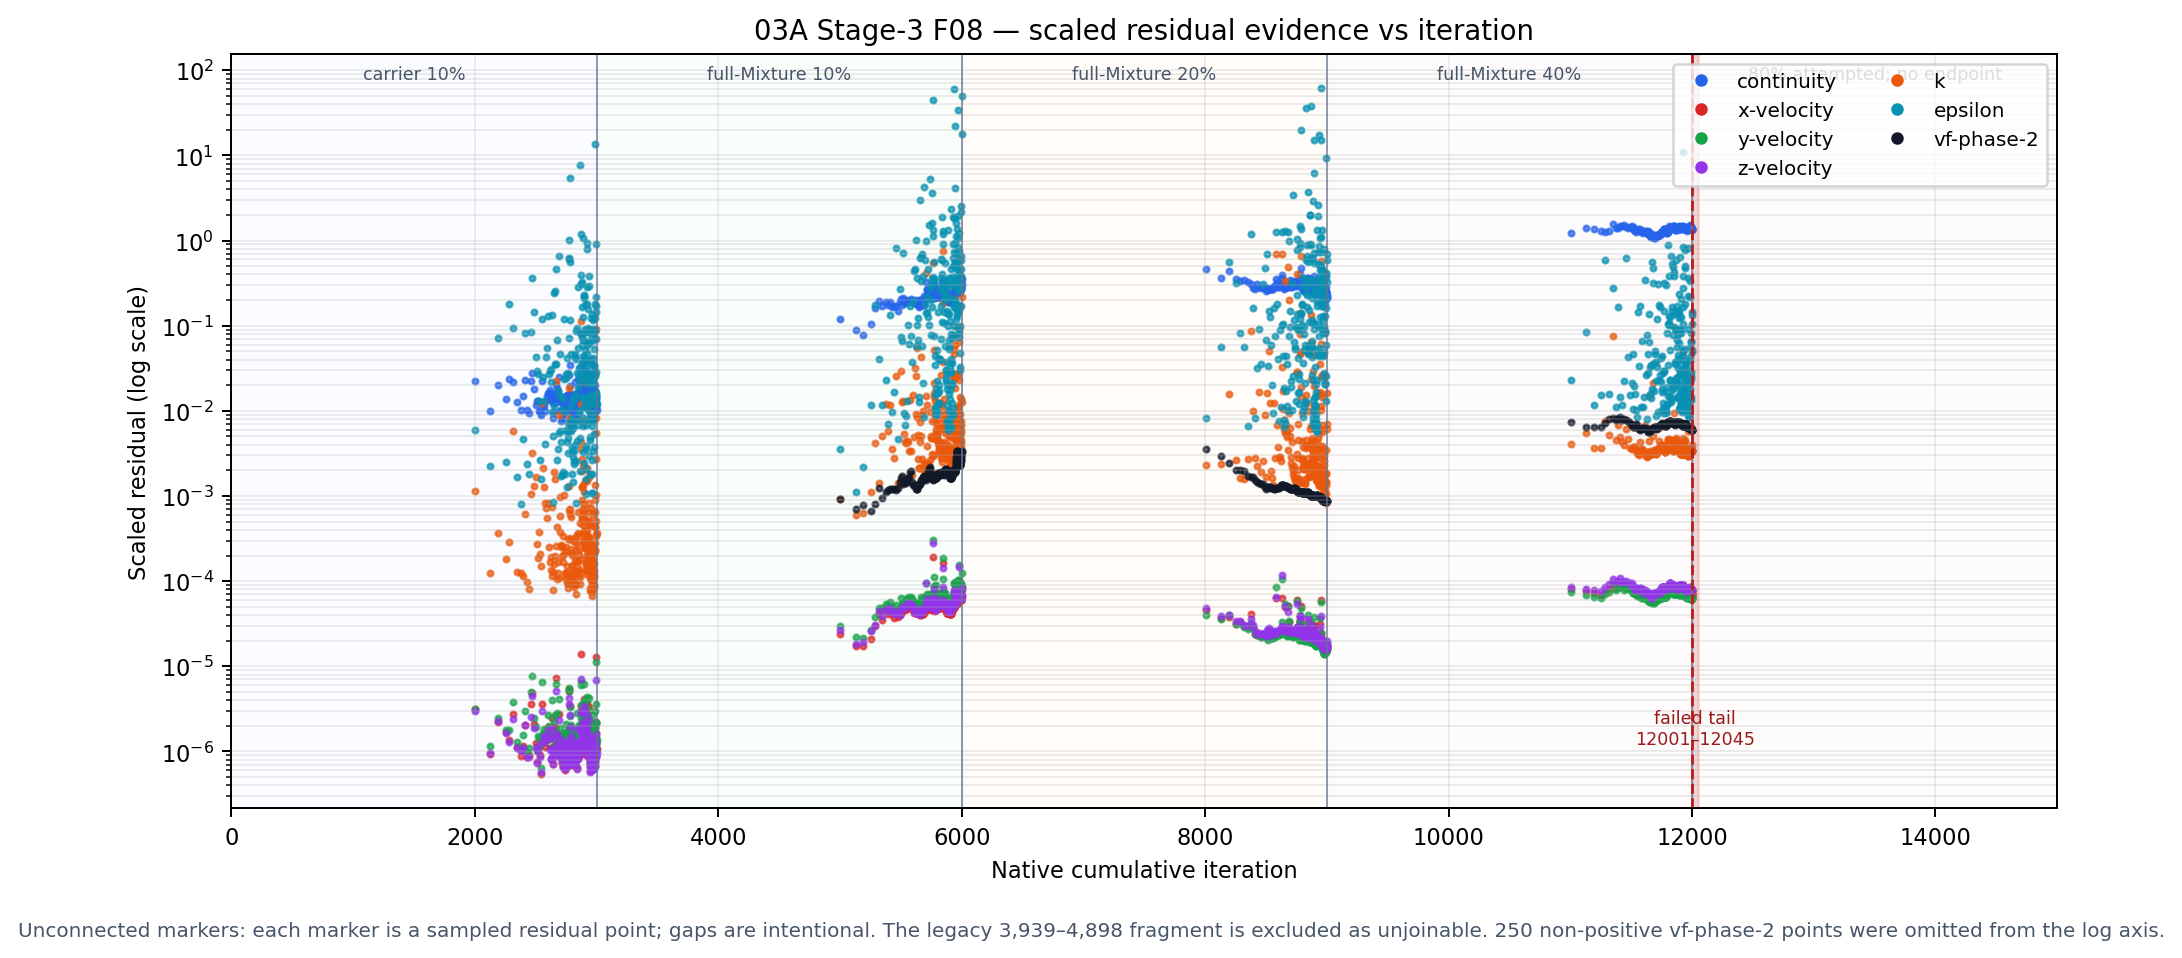
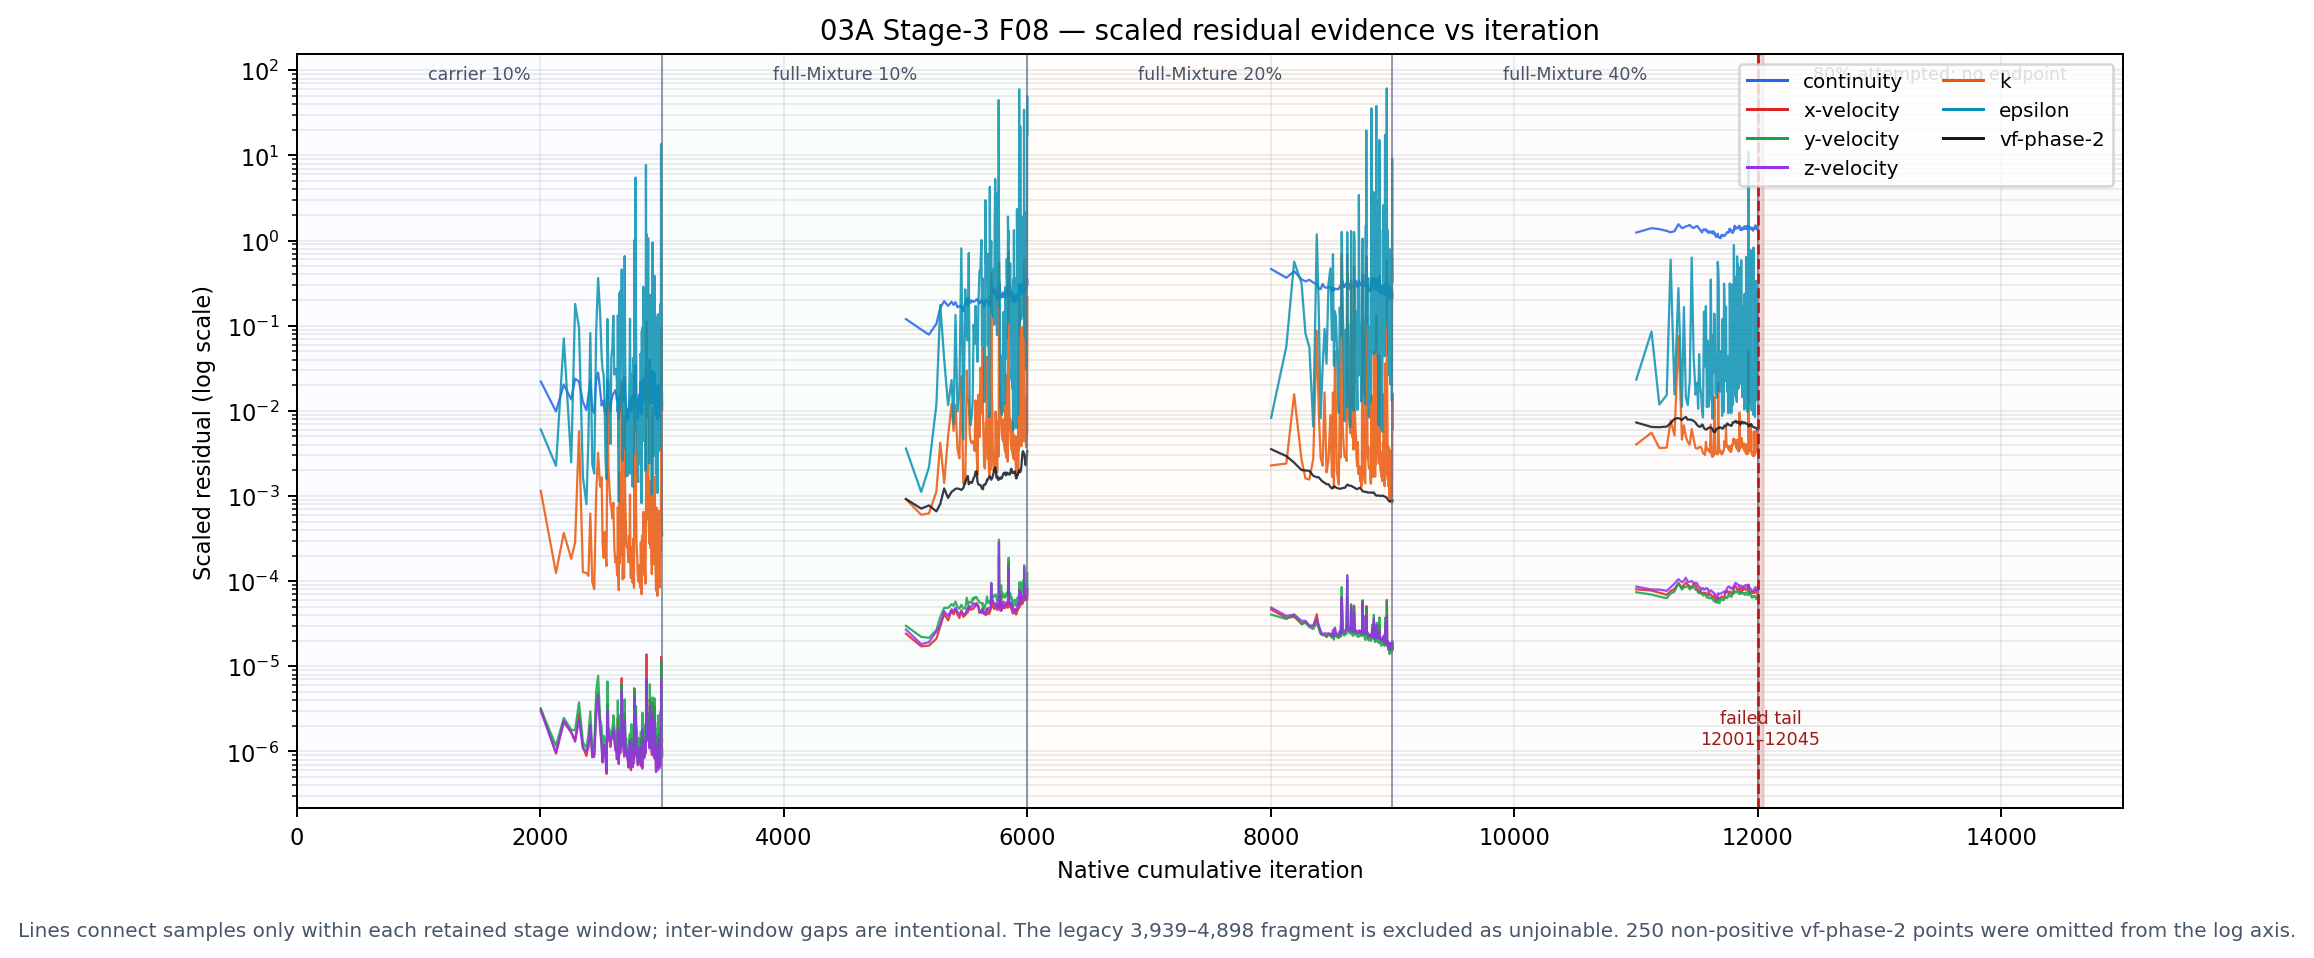
Publish Stage 3 and Stage 4 results plots

diff --git a/Setups/reports/full-geometry/mixture/steady-liquid-outlet/03a/03a-stage4-native-queue-execution-2026-08-23.md b/Setups/reports/full-geometry/mixture/steady-liquid-outlet/03a/03a-stage4-native-queue-execution-2026-08-23.md
@@ -12,47 +12,88 @@ lifecycle: active
 
 ## Status
 
-The original non-overwriting queue
-`03A-stage4-S4-01-through-S4-04-native-20260822T123011Z` is no longer active.
-Its Fluent-owned journal reached S4-02 cumulative iteration `36,000`, the exact
-`+30,000` iteration budget from the F06 iteration-6,000 parent, and then
-reported a journal-read error before the named endpoint write, residual export
-or S4-03 transition.  No NaN, infinity, floating-point exception or explicit
-fatal divergence preceded the interruption.
+The current Server 2 tree is the authoritative artifact source for this report:
+`C:\Users\syok443\Documents\FluentRuns\03A-stage4`.  It contains the
+completed S4-01 native branch, the completed-budget S4-02 native branch, and a
+later S4-03 recovery branch that reached its named cumulative-45,000 endpoint.
+This section supersedes the earlier 2026-08-23 reconciliation snapshot, which
+was written before the later endpoint/checkpoint files were visible in the
+remote tree.
 
-The bounded recovery queue
-`03A-stage4-S4-02-forensic-S4-03-S4-04-recovery-20260823T125548Z` is also
-stopped.  It preserved the post-interruption S4-02 live field under a unique
-forensic name, independently prepared S4-03 and S4-04 from the exact F11
-iteration-15,000 case/data pair, and submitted S4-03 as a Fluent-owned native
-branch.  S4-03 reached cumulative iteration `42,547` (`+27,547`) before the
-owner received `Stream removed (recvmsg:Operation timed out)`.  The target
-cumulative-45,000 autosave and named endpoint were absent at reconciliation,
-so the owner stopped without replay and S4-04 was not submitted.
+The native Stage 4 branches are related to the Stage 3 cases as follows:
+
+- S4-01 continues the F05 parent at cumulative iteration 3,000 for `+30,000`,
+  ending at cumulative 33,000.
+- S4-02 continues the F06 parent at cumulative iteration 6,000 for `+30,000`,
+  reaching cumulative 36,000 in the console.  Its six paired checkpoints stop
+  at 35,000 and no named endpoint or native residual export was written.
+- S4-03 continues the F11 parent at cumulative iteration 15,000 for `+30,000`
+  in the recovery run, ending at cumulative 45,000.
+- S4-04 uses the same F11 parent with standard `k-epsilon`, but remains a
+  prepared-only branch and was never submitted.
+
+No NaN, infinity, floating-point exception or explicit fatal numerical
+divergence is indicated by the recovered execution evidence.  These files are
+execution and diagnostic evidence; they do not by themselves establish
+physical convergence or parent eligibility.
 
 ## Verified execution evidence
 
 | Branch | Verified state | Classification |
 |---|---|---|
-| S4-01 | Native journal reached cumulative iteration 33,000 (`+30,000`); the named final case and data both exist | completed diagnostic / unresolved pending checksums, readback and physical-history analysis |
-| S4-02 | Native console reached cumulative iteration 36,000 (`+30,000`), then the journal stopped before endpoint write. A unique case/data pair was subsequently saved and hash-verified, but Fluent's post-interruption RP iteration value was `1,556` and cannot be reconciled with the console count | completed iteration budget / forensic live-field preservation / diagnostic-unresolved; not parent-eligible |
-| S4-03 | Exact F11 parent hashes and RNG readback passed. Complete paired autosaves were written at 20,000, 25,000, 30,000, 35,000 and 40,000. Transport failed at cumulative iteration 42,547 (`+27,547`), before the 45,000 target and named endpoint | interrupted diagnostic / unresolved; latest complete pair is cumulative 40,000 (`+25,000`), not parent-eligible |
-| S4-04 | Exact same F11 parent hashes and standard `k-epsilon` readback passed; prepared under a separate output root and native journal, but never submitted | prepared independent diagnostic / unresolved; not executed |
+| S4-01 | Native journal and remote tree show cumulative iteration 33,000 (`+30,000`), six paired checkpoints from 5,000 through 30,000, a named final case/data pair, residual export, transcript, and 30 physical report histories | completed diagnostic / unresolved pending binary checksums, readback and physical-history analysis |
+| S4-02 | Native console reached cumulative iteration 36,000 (`+30,000`); six paired checkpoints exist from 10,000 through 35,000. A separate recovery tree contains the ambiguous live-field forensic case/data pair; the native branch has no named endpoint or residual export, but its complete per-iteration residual table is present in the transcript | completed iteration budget / forensic live-field preservation / diagnostic-unresolved; not parent-eligible |
+| S4-03 | Recovery branch contains six paired checkpoints from 20,000 through 45,000, a named final case/data pair, residual export, transcript, and 30 physical report histories | completed diagnostic / unresolved pending binary checksums, readback and physical-history analysis |
+| S4-04 | Native and recovery prepared cases exist for the standard `k-epsilon` branch; no data, checkpoints, transcript, or report histories exist | prepared independent diagnostic / unresolved; not executed |
 
-The final observed S4-02 residual row at cumulative iteration `36,000` was
-continuity `0.15066`, `x/y/z` momentum `3.0047e-05`, `2.7322e-05`, and
-`3.1789e-05`, `k` `1.4070e-03`, epsilon `0.10394`, and phase-volume-fraction
-residual `2.1425e-03`.  This proves completion of the iteration budget, not a
-valid saved endpoint or physical convergence.
+The S4-02 transcript residual table runs continuously from cumulative
+iteration `6,000` through `36,000`; the Stage 3 F06 parent history supplies
+iterations `1–6,000`, with the shared boundary row deduplicated.  At
+iteration `36,000`, the residuals are continuity `0.15066`, `x/y/z` momentum
+`3.0047e-05`, `2.7322e-05`, and `3.1789e-05`, `k` `1.4070e-03`, epsilon
+`0.10394`, and phase-volume-fraction `2.1425e-03`.  There is no separate
+native `-residuals.out` export for S4-02, but its full residual history is now
+available from the transcript and is included in the cumulative CSV/JSON
+package.  The phase-volume-fraction series correctly starts at iteration
+3,001 because the F06 carrier parent did not record that equation earlier.
 
-The last observed S4-03 residual row at cumulative iteration `42,547` was
-continuity `1.5239`, `x/y/z` momentum `2.9694e-05`, `2.8665e-05`, and
-`3.0068e-05`, `k` `1.6928e-03`, epsilon `0.13969`, and
-phase-volume-fraction residual `2.1828e-03`.  Reversed flow on pressure outlet
-30 and turbulent-viscosity limiting persisted.  No NaN, infinity,
-floating-point exception or explicit fatal numerical divergence was recorded;
-the terminal signature is transport/journal failure, not demonstrated solver
-divergence.  These residual values do not establish convergence.
+The S4-01 residual export ends at cumulative iteration `33,000` with
+continuity `0.155722`, `x/y/z` momentum `2.96232e-05`, `2.90554e-05`, and
+`3.20977e-05`, `k` `1.23642e-03`, epsilon `0.133098`, and phase-volume-fraction
+residual `2.22671e-03`.  The S4-03 recovery residual export ends at cumulative
+iteration `45,000` with continuity `1.37284`, `x/y/z` momentum
+`2.92493e-05`, `2.86139e-05`, and `3.16722e-05`, `k` `1.04189e-03`, epsilon
+`0.0489749`, and phase-volume-fraction residual `2.19014e-03`.  These values
+do not establish convergence.
+
+## Server 2 artifact relocation and analysis package
+
+The complete relocation map and portable analysis files are now stored beside
+this report:
+
+- [Server 2 evidence README](evidence/03a-stage4-server2/README.md) — exact
+  remote root, branch/run mapping, file types, and transfer limitation.
+- [Machine-readable evidence index](evidence/03a-stage4-server2/index.json) —
+  30/30 recovered report histories for S4-01, S4-02, and S4-03.
+- [Checkpoint relocation manifest](evidence/03a-stage4-server2/checkpoint-relocation-manifest.json) —
+  exact remote case/data paths and existence checks for all checkpoint,
+  prepared, endpoint, and forensic artifacts.
+- [Plot index](plots/03a-stage4/server2/index.json) — 22 PNGs: seven per
+  branch plus one cross-branch comparison.
+
+The portable package contains one CSV per physical report history (30 per
+branch), cumulative residual CSVs for all three executed branches, the raw
+Stage 4 transcript residual segments, and the source remote path in each JSON
+record.  The native H5 case/data files remain on Server 2:
+the configured PyFluent endpoint did not expose its file-transfer service, so
+they could not be copied into the repository during this read-only inspection.
+No case was loaded, no solve was started, and no remote Fluent file was
+written during extraction.
+
+The scaled-residual figures and cumulative residual CSVs are assembled from
+the complete Stage 3 parent history plus the complete Stage 4 transcript
+history.  Their x-axes are anchored at `0`; the first recorded Fluent residual
+row is at iteration `1`, so no artificial iteration-0 residual is inserted.
 
 ## Recovery controls and lineage
 
@@ -73,10 +114,18 @@ divergence.  These residual values do not establish convergence.
[1 lines of base64/hex data omitted]
   The prepared S4-03 case reads back RNG `k-epsilon`; the independently
   prepared S4-04 case reads back standard `k-epsilon`.
-- Each branch has a separate journal, transcript, residual file, 30 physical
-  report histories, 5,000-iteration paired autosaves and named endpoint.  The
-  final cumulative-45,000 autosave is also an endpoint-recovery candidate if a
-  post-iteration journal command fails.
+- S4-01 has a separate journal, transcript, residual export, 30 physical
+  report histories, six 5,000-iteration paired autosaves and a named endpoint.
+- S4-02 has a separate journal, transcript, 30 physical report histories and
+  six paired autosaves.  It has no native residual export or named endpoint;
+  its later forensic case/data pair is retained only as ambiguous live-field
+  evidence.
+- S4-03's recovery branch has a separate journal, transcript, residual export,
+  30 physical report histories, six paired autosaves and a named endpoint at
+  cumulative 45,000.  This completed endpoint supersedes the earlier
+  42,547-iteration recovery snapshot.
+- S4-04 has prepared case files under separate native and recovery roots, but
+  no submitted solve artifacts.
 - The recovery owner released the writer lock after recording the transport
   failure.  No second Fluent observer was connected and no automatic replay
   occurred.
@@ -86,9 +135,8 @@ divergence.  These residual values do not establish convergence.
 - Fluent's monitor-stream manager does not expose the residual set to the
   reconnecting client, so cumulative iteration is parsed from the native
   console stream rather than the monitor API.
-- Thirty S4-03 physical report histories remain remote and have not yet been
-  recovered.  Mass balance, phase routing, liquid inventory and pressure
-  stationarity are therefore not adjudicated.
+- The extracted physical histories are now local, but the native H5 case/data
+  files remain remote-only pending a usable file-transfer route.
 - The S4-02 named endpoint and residual export were never written.  Its
   cumulative-35,000 autosave is only `+29,000`; it is not the common-budget
   endpoint.  The forensic pair cannot repair that scientific identity gap.
@@ -111,7 +159,14 @@ divergence.  These residual values do not establish convergence.
   `PyAnsys/output/03a_stage4/native_queue_recovery/20260823T125548Z/`
 - Recovery implementation:
   `PyAnsys/scripts/setup/recover_resume_03a_stage4.py`
+- Server 2 extraction implementation:
+  `PyAnsys/scripts/report/extract_03a_stage4_server2_evidence.py`
+- Offline plotting implementation:
+  `PyAnsys/scripts/report/plot_03a_stage4_server2.py`
 
-Interpretation status: interrupted diagnostic / unresolved.  S4-03 did not
-complete the common budget, S4-04 did not run, and no recovery checkpoint is
-promoted.
+Interpretation status: completed diagnostic evidence recovered for S4-01 and
+S4-03, completed-budget but endpoint-incomplete evidence for S4-02, and
+prepared-only evidence for S4-04.  All branches remain unresolved for
+scientific parent promotion pending binary checksums, exact readback and
+physical-history analysis.  S4-03's recovery checkpoint now reaches the common
+`+30,000` budget; S4-04 did not run.

diff --git a/Setups/reports/full-geometry/mixture/steady-liquid-outlet/03a/03a-stage3-schedule-d-final-results.md b/Setups/reports/full-geometry/mixture/steady-liquid-outlet/03a/03a-stage3-schedule-d-final-results.md
@@ -7,7 +7,7 @@ Branch case/data, journals, transcripts, and sampled residual exports are stored
 
 ## F08 — qualified partial evidence
 
-The branch-linked physical reports are continuous from 9,000–12,045. Figures plot the validated interval 9,000–12,000; 12,001–12,045 is excluded as the failed next-stage tail. Residual points are sampled stage windows and remain unconnected. The older 3,939–4,898 residual fragment is excluded as unjoinable.
+The branch-linked physical reports are continuous from 9,000–12,045. Figures plot the validated interval 9,000–12,000; 12,001–12,045 is excluded as the failed next-stage tail. Sampled residuals are connected only within each retained stage window. The older 3,939–4,898 residual fragment is excluded as unjoinable.
 
 1. [Sampled scaled residuals](./plots/03a-stage3/iteration-led/server1/F08/01-scaled-residuals-vs-iteration.png)
 2. [Mass convergence, 9,000–12,000](./plots/03a-stage3/iteration-led/server1/F08/02-mass-convergence-vs-iteration.png)
@@ -21,7 +21,7 @@ No valid solve endpoint, residual history, or physical history was recovered. Th
 
 ## F12 — completed six-stage sequence
 
-Physical histories are continuous from 1–18,000. The six retained residual exports each contain 250 sampled points; they are shown as unconnected markers at native iterations, with no inferred values between samples.
+Physical histories are continuous from 1–18,000. The six retained residual exports each contain 250 sampled points; each retained window is a line segment at native iterations, with no line across the gaps between windows.
 
 1. [Sampled scaled residuals](./plots/03a-stage3/iteration-led/server1/F12/01-scaled-residuals-vs-iteration.png)
 2. [Mass convergence](./plots/03a-stage3/iteration-led/server1/F12/02-mass-convergence-vs-iteration.png)

diff --git a/Setups/reports/full-geometry/mixture/steady-liquid-outlet/03a/index.md b/Setups/reports/full-geometry/mixture/steady-liquid-outlet/03a/index.md
@@ -28,11 +28,16 @@ All figures associated with this setup are under [`plots/`](plots/).
 
 - [Initial experiment brief and interrupted execution status](03a-stage4-initial-experiment-brief.md)
 - [Native-queue execution and transport-recovery evidence](03a-stage4-native-queue-execution-2026-08-23.md)
+- [Server 2 extracted evidence index](evidence/03a-stage4-server2/index.json)
+- [Server 2 checkpoint relocation manifest](evidence/03a-stage4-server2/checkpoint-relocation-manifest.json)
+- [Server 2 plot index](plots/03a-stage4/server2/index.json)
 - [Canonical Stage-4 setup plan](../../../../../full-geometry/mixture/steady-liquid-outlet/03a-stage4-promising-state-development.md)
 
-The original S4-01-through-S4-04 queue stopped after completing S4-02's
-iteration budget but before its endpoint write.  A non-overwriting recovery
-queue preserved that field as unresolved forensic evidence.  Its independent
-S4-03 branch stopped at `+27,547` with complete paired autosaves through
-`+25,000`; S4-04 was prepared but not submitted.  S4-05/S4-06 remain gated on
-exact F09-parent access.
+The current Server 2 reconciliation supersedes the earlier 2026-08-23 snapshot:
+S4-01 has a complete `+30,000` run and named endpoint, S4-02 has complete
+`+30,000` iteration coverage but no named endpoint or native residual export,
+S4-03 has a complete recovery `+30,000` run and named endpoint, and S4-04 was
+prepared but not submitted.  S4-05/S4-06 remain gated on exact F09-parent
+access.  Portable CSV/JSON histories and plots are stored under this report;
+the native H5 case/data binaries remain at the authoritative Server 2 paths
+listed in the relocation manifest.

diff --git a/Setups/reports/full-geometry/mixture/steady-liquid-outlet/03a/03a-stage3-final-results.md b/Setups/reports/full-geometry/mixture/steady-liquid-outlet/03a/03a-stage3-final-results.md
@@ -15,13 +15,13 @@
 | F05 | five figures | continuous residual and physical histories 1–3,000 |
 | F06 | five figures | continuous joined histories 1–6,000; phase-fraction residual absent during carrier stage |
 | F07 | five figures | continuous 1–9,174; 9,151–9,174 is a numerical-failure tail |
-| F08 | five qualified partial figures | physical history 9,000–12,000; residuals are sampled windows; next-stage tail excluded |
+| F08 | five qualified partial figures | physical history 9,000–12,000; sampled residual windows are line segments; next-stage tail excluded |
 | F09 | five figures | continuous residual and physical histories 1–15,000 |
 | F10 | unavailable statement | initialized case evidence only; no valid solve history |
 | F11 | five figures | continuous joined histories 1–15,000 |
-| F12 | five figures | physical history 1–18,000; residuals are sampled windows, shown as unconnected markers |
+| F12 | five figures | physical history 1–18,000; residuals are sampled windows, shown as separate line segments |
 
-No figure fabricates continuity. Continuous series are lines, sampled residual exports are unconnected markers at their native iterations, and unavailable evidence has no placeholder plot.
+No figure fabricates continuity. Continuous series are lines; sampled residual exports are separate lines within each retained window and never bridge an unrecorded gap; unavailable evidence has no placeholder plot.
 
 ## Result packages
 

diff --git a/Setups/reports/full-geometry/mixture/steady-liquid-outlet/03a/03a-stage4-initial-experiment-brief.md b/Setups/reports/full-geometry/mixture/steady-liquid-outlet/03a/03a-stage4-initial-experiment-brief.md
@@ -1,6 +1,15 @@
 # 03A Stage 4 — Initial Experiment Brief
 
-## Execution status — S4-03 recovery interrupted
+## Historical execution status — superseded by the updated result report
+
+> The execution narrative below is the original 2026-08-23 snapshot.  The
+> authoritative Server 2 tree was rechecked on 2026-08-27 and contains later
+> S4-01/S4-02/S4-03 artifacts, including a complete S4-03 recovery endpoint.
+> Use the [updated execution evidence report](03a-stage4-native-queue-execution-2026-08-23.md)
+> and its [Server 2 evidence package](evidence/03a-stage4-server2/README.md)
+> for current run status, relocation paths, histories, and plots.
+
+## Execution status — S4-03 recovery interrupted (historical snapshot)
 
 The first authoritative native queue was submitted at `2026-08-22T12:30:11Z`
 under the non-overwriting label

diff --git a/Setups/reports/full-geometry/mixture/steady-liquid-outlet/03a/03a-stage3-results-analysis-and-plotting-plan.md b/Setups/reports/full-geometry/mixture/steady-liquid-outlet/03a/03a-stage3-results-analysis-and-plotting-plan.md
@@ -20,7 +20,7 @@ Stage boundaries, interventions, and numerical-failure tails are annotations on 
 | Evidence | Presentation |
 |---|---|
 | continuous history | line versus iteration |
-| sampled history | unconnected markers at recorded iterations |
+| sampled history | a line within each retained contiguous window; no connection across unrecorded gaps |
 | several checkpoints only | markers at actual cumulative iterations |
 | one checkpoint | table only |
 | unavailable | explicit status statement; no placeholder figure |
